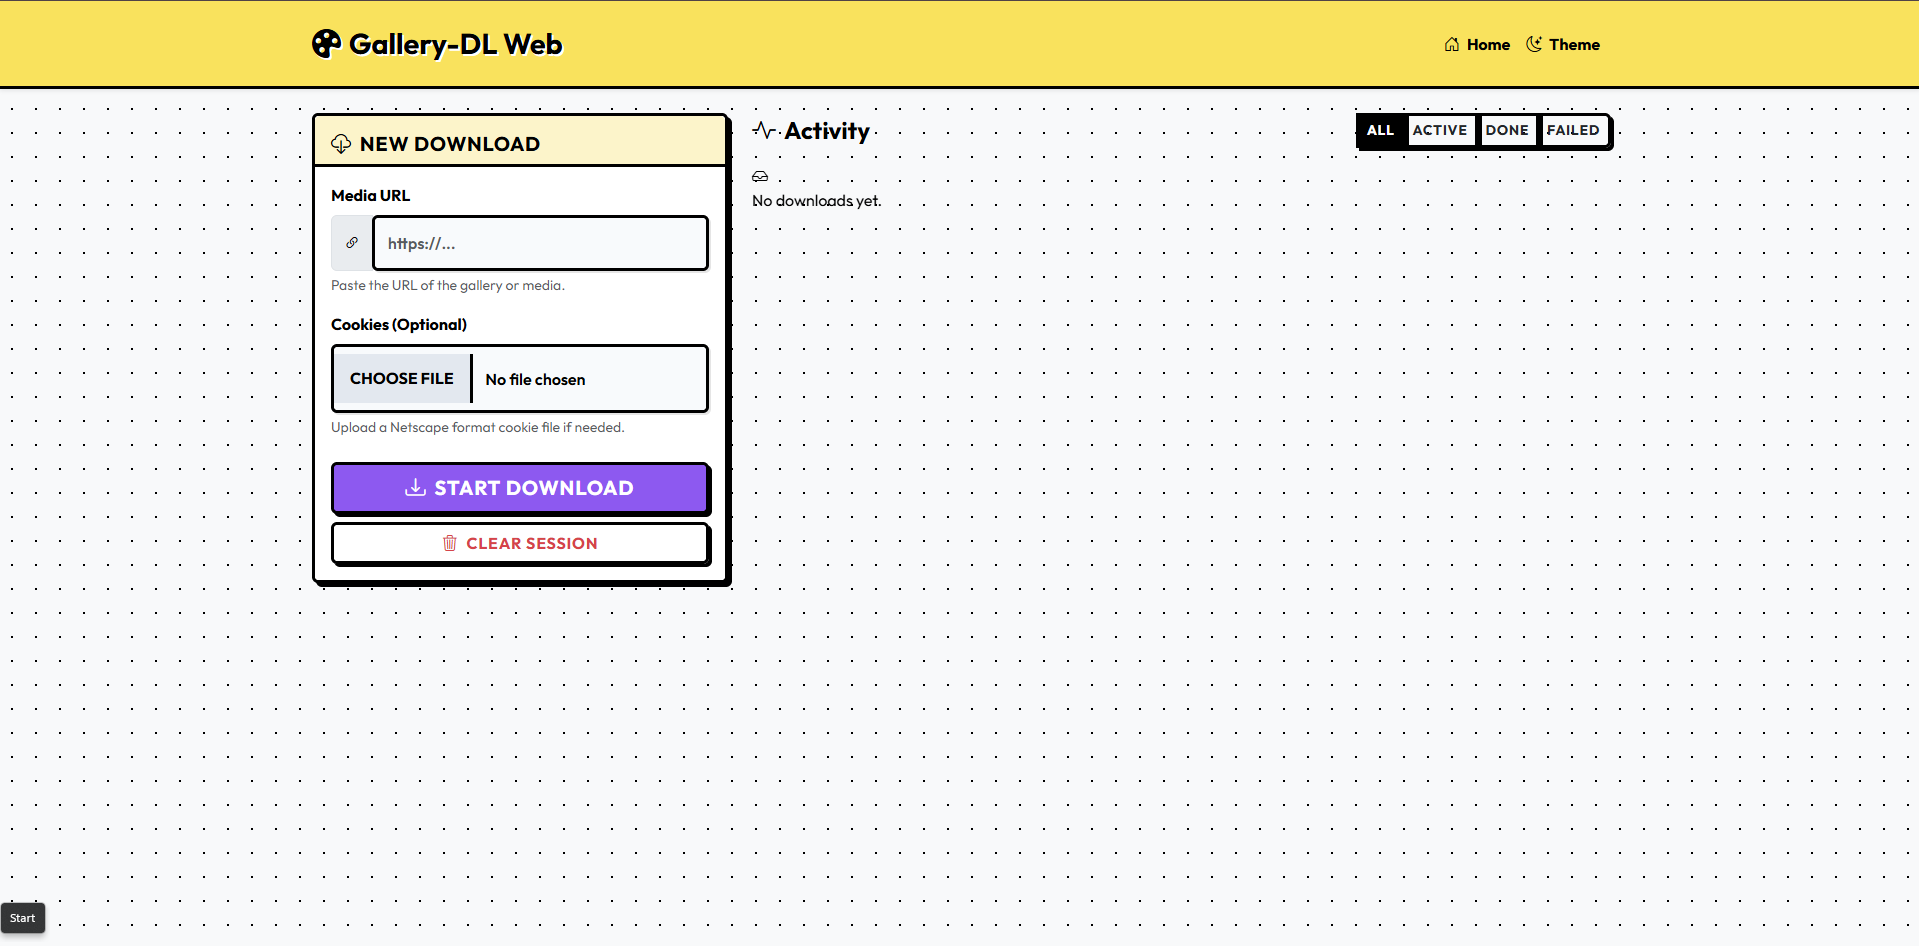
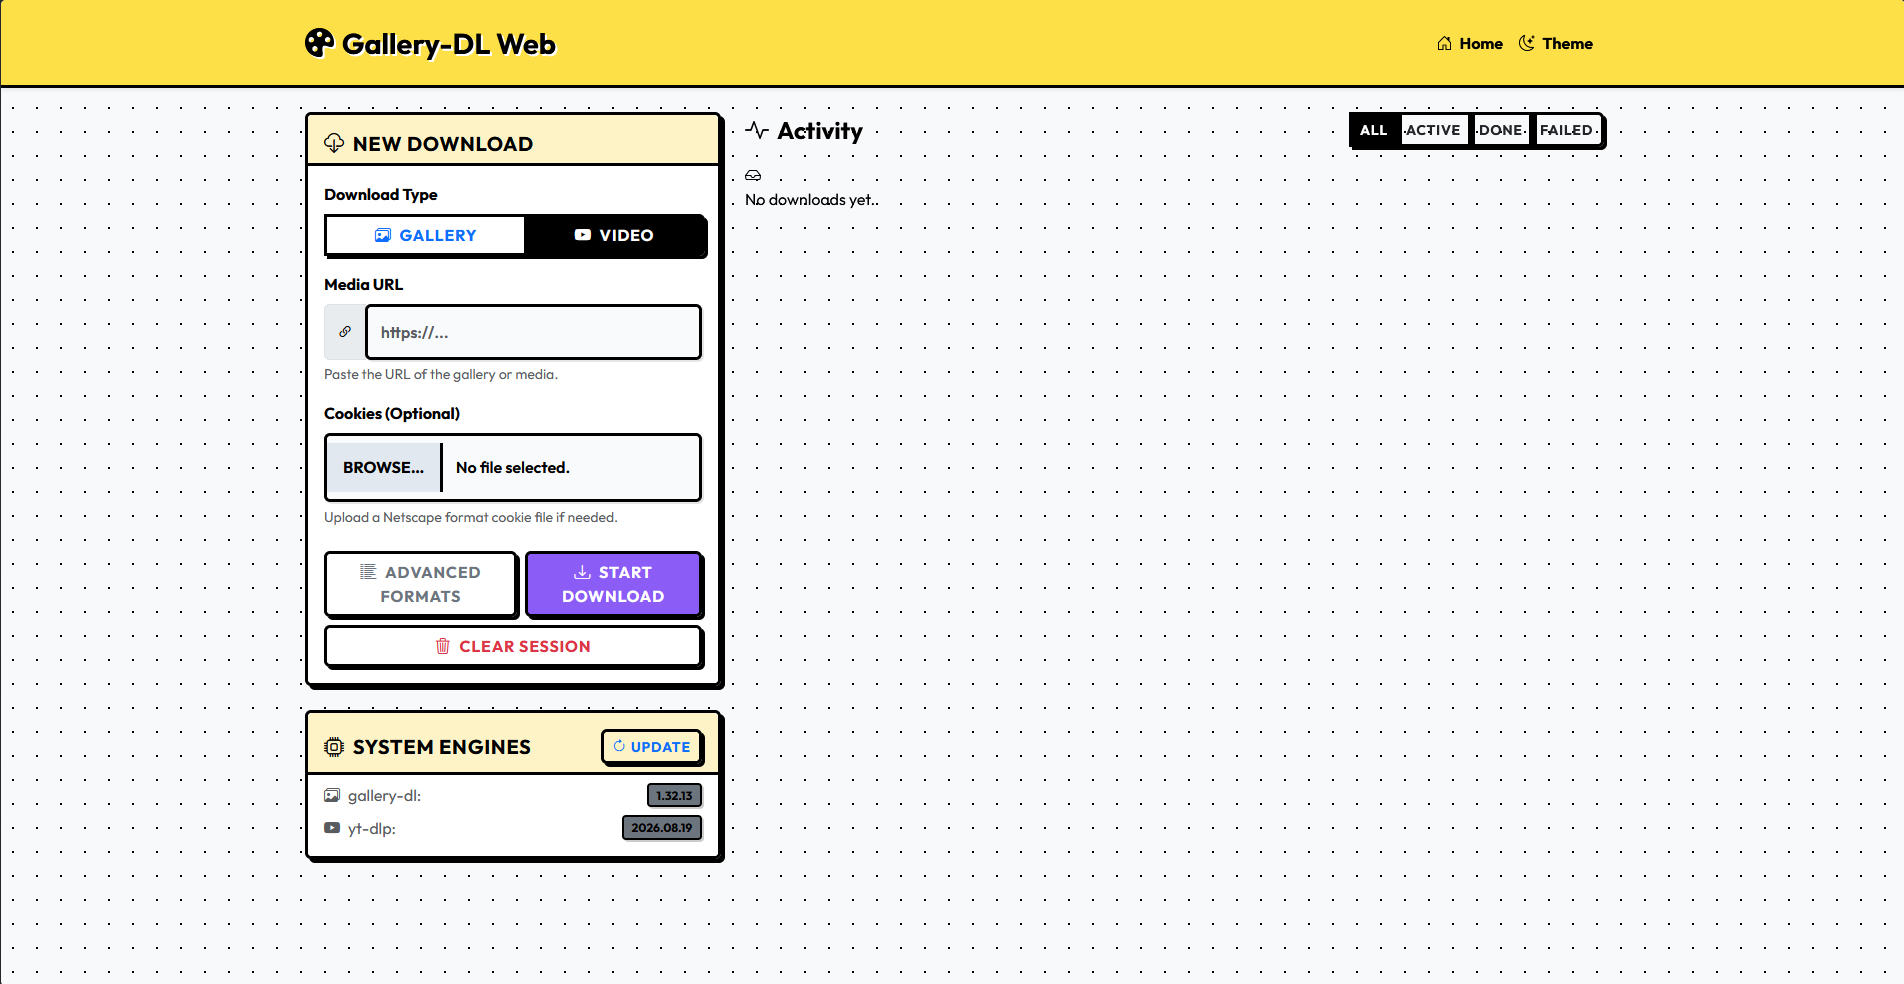
Fixed Docker Download Path Problem

Changed region(s): [[0.0, 0.0307, 1.0, 0.889], [0.0, 0.9503, 0.031, 1.0]]

diff --git a/app/templates/index.html b/app/templates/index.html
@@ -27,8 +27,9 @@
     <!-- Navbar -->
     <nav class="navbar navbar-expand-lg navbar-light shadow-sm mb-4">
         <div class="container">
-            <a class="navbar-brand fw-bold" href="#">
-                <i class="bi bi-palette-fill me-2"></i>Gallery-DL Web
+            <a class="navbar-brand fw-bold d-flex align-items-center" href="#">
+                <img src="{{ url_for('static', filename='img/logo.jpg') }}" alt="Logo" width="32" height="32" class="me-2 rounded shadow-sm">
+                Gallery-DL Web
             </a>
             <button class="navbar-toggler" type="button" data-bs-toggle="collapse" data-bs-target="#navbarNav">
                 <span class="navbar-toggler-icon"></span>

diff --git a/app/services/download_service.py b/app/services/download_service.py
@@ -414,15 +414,18 @@ class DownloadService:
                                     end_time = datetime.fromisoformat(st["end_time"])
                                     if end_time.timestamp() < cutoff:
                                         self.logger.info(
-                                            f"Janitor: removing expired download {did}"
+                                            f"Janitor: removing expired download status {did} (files preserved on disk)"
                                         )
-                                        self.delete_download(did)
+                                        # Only remove in-memory status tracking, NOT files on disk.
+                                        # Files are only deleted when a user explicitly deletes a download
+                                        # or clears their session.
+                                        self.delete_download(did, delete_files=False)
                                 except ValueError:
                                     # Handle invalid date format
                                     self.logger.warning(
-                                        f"Invalid date format for download {did}, removing anyway"
+                                        f"Invalid date format for download {did}, removing status anyway"
                                     )
-                                    self.delete_download(did)
+                                    self.delete_download(did, delete_files=False)
                         except Exception as e:
                             self.logger.error(
                                 f"Error processing download {did} in janitor: {e}"
@@ -740,8 +743,8 @@ class DownloadService:
                     # Force output to MP4 format instead of WebM
                     cmd.extend(["--merge-output-format", "mp4"])
                     
-                    # Prevent downloading entire playlists
-                    cmd.append("--no-playlist")
+                    # Prevent downloading entire playlists and disable ANSI colors
+                    cmd.extend(["--no-playlist", "--no-colors"])
 
                     
                 else:
@@ -1023,6 +1026,8 @@ class DownloadService:
                         raw_files = extract_downloaded_files_ytdlp(stdout_lines)
                         files_list = []
                         for f in raw_files:
+                            # Strip quotes and whitespace that might have slipped through
+                            f = f.strip().strip('"').strip("'")
                             # 1. Normalize path
                             if not os.path.isabs(f):
                                 full_p = os.path.join(output_dir, f)
@@ -1418,35 +1423,23 @@ class DownloadService:
             # This catches cases where files list might be empty or incomplete
             if output_dir and os.path.exists(output_dir):
                 dirname = os.path.basename(output_dir)
-                # Only strictly delete 'user_' directories if they are empty
+                # Only delete 'user_' directories if they are empty
                 if dirname.startswith("user_"):
                     try:
-                        # Attempt to remove if empty
+                        # Attempt to remove ONLY if empty (os.rmdir fails on non-empty dirs)
                         if self._retry_fs_operation(os.rmdir, output_dir):
                             self.logger.info(
                                 f"Deleted empty session directory: {output_dir}"
                             )
-                        else:
-                             # Directory not empty, likely contains untracked files/folders
-                             # FALLBACK: If we are sure this is a user session dir, force remove it
-                             try:
-                                 self.logger.info(
-                                     f"Force removing remaining session directory: {output_dir}"
-                                 )
-                                 # Use rmtree as last resort to kill everything in the user dir
-                                 self._retry_fs_operation(shutil.rmtree, output_dir)
-                             except Exception as e:
-                                 self.logger.error(
-                                     f"Failed to force remove directory {output_dir}: {e}"
-                                 )
-
+                        # If not empty, leave it alone — other downloads may still use it
                     except OSError:
                          pass
 
-    def delete_download(self, download_id: str) -> bool:
+    def delete_download(self, download_id: str, delete_files: bool = True) -> bool:
         if download_id in self.active_processes:
             self.active_processes.pop(download_id).terminate()
-        self.delete_download_files(download_id)
+        if delete_files:
+            self.delete_download_files(download_id)
         self._pop_status(download_id)
 
         # Comprehensive cookie and config cleanup

diff --git a/app/services/download_service_adapter.py b/app/services/download_service_adapter.py
@@ -125,17 +125,17 @@ class DownloadServiceAdapter:
         # Ensure session is initialized with user-specific directory
         self._ensure_session_initialized()
 
-        # Create user-specific download directory if it doesn't exist
-        if "user_download_dir" not in session:
-            base_download_dir = current_app.config.get("DOWNLOADS_DIR", "downloads")
-            user_dir = os.path.join(base_download_dir, f"user_{session['session_id']}")
-            os.makedirs(user_dir, exist_ok=True)
-            session["user_download_dir"] = user_dir
-            self.logger.info(f"Created user-specific download directory: {user_dir}")
+        # ALWAYS compute the download directory from the current server config.
+        # Never blindly reuse a path from the session cookie — it may be stale
+        # (e.g. a Windows path from a local run being sent to a Docker container).
+        base_download_dir = current_app.config.get("DOWNLOADS_DIR", "downloads")
+        user_dir = os.path.join(base_download_dir, f"user_{session['session_id']}")
+        os.makedirs(user_dir, exist_ok=True)
+        session["user_download_dir"] = user_dir
 
         # Use user-specific download directory if none provided
         if not output_dir:
-            output_dir = self._get_user_download_dir()
+            output_dir = user_dir
 
         # Start the download with the user-specific directory
         session_id = cast(Optional[str], session.get("session_id"))

diff --git a/app/services/progress_parser.py b/app/services/progress_parser.py
@@ -155,7 +155,10 @@ def extract_downloaded_files_ytdlp(stdout_lines: List[str]) -> List[str]:
     deleted_files = set()
     
     for line in stdout_lines:
+        # Strip ANSI escape codes (yt-dlp sometimes outputs them even with --no-colors)
+        line = re.sub(r'\x1b\[[0-9;]*m', '', line)
         line = line.strip()
+        
         # [download] Destination: ...
         if "[download] Destination:" in line:
             match = re.search(r'Destination:\s+(.*)$', line)
@@ -215,6 +218,7 @@ def extract_downloaded_files(stdout_lines: List[str]) -> List[str]:
     )
 
     for line in stdout_lines:
+        line = re.sub(r'\x1b\[[0-9;]*m', '', line)
         line = line.strip()
         # Handle "Downloading x -> y" format if present
         if "Downloading" in line and " -> " in line:

diff --git a/Readme.md b/Readme.md
@@ -1,4 +1,12 @@
-# Gallery-DL Web Interface (GDL-Web)
+# Gallery-DL Web App
+
+<div align="center">
+  <img src="assets/logo.jpg" alt="Gallery-DL Web Logo" width="200" style="border-radius: 20px;">
+</div>
+
+<p align="center">
+  <b>A simple, isolated, session-based web interface for downloading media using gallery-dl and yt-dlp.</b>
+</p>
 
 A web-based user interface for the [gallery-dl](https://github.com/mikf/gallery-dl) command-line tool that allows users to download media from various online platforms through an intuitive web interface. The application provides real-time download status tracking, session management, and secure cookie handling for authenticated downloads.
 
